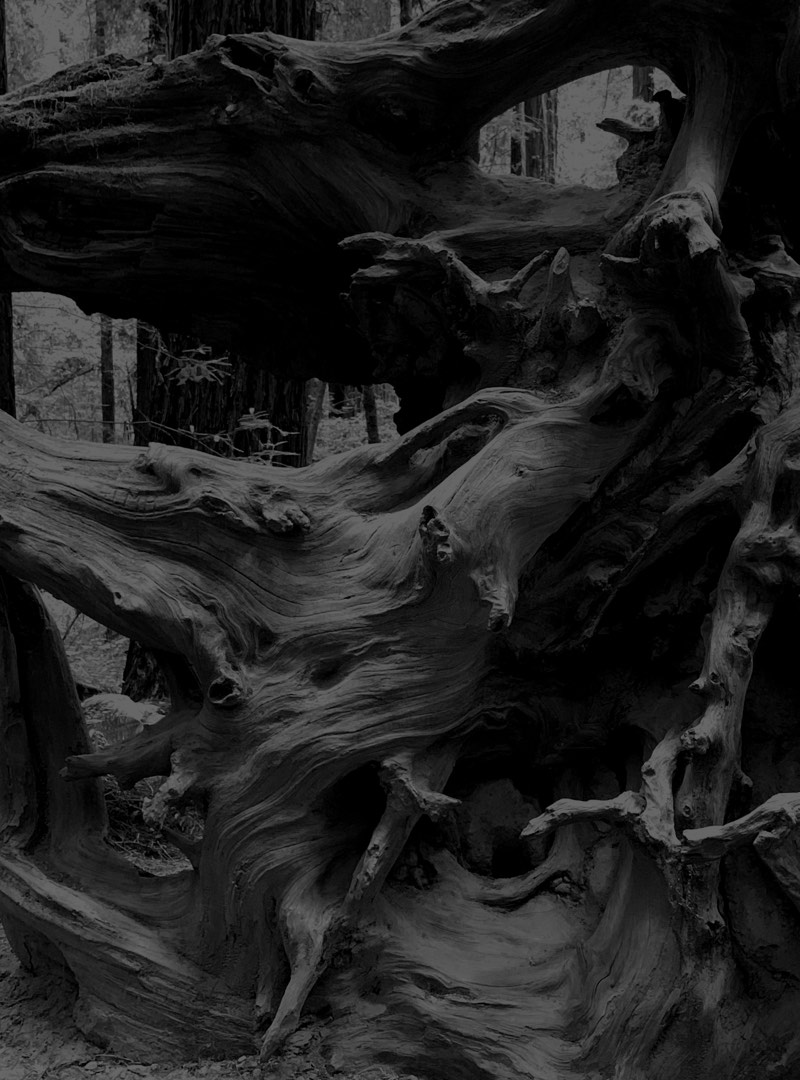
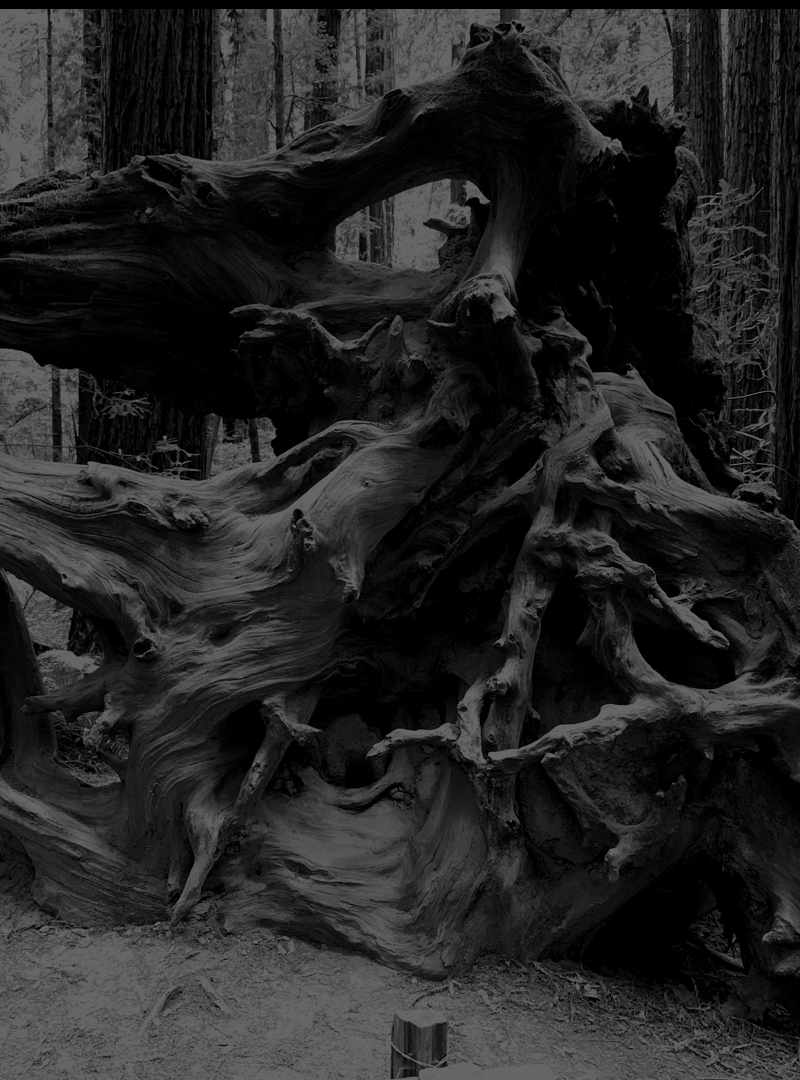
fixed hero image

diff --git a/main.css b/main.css
@@ -232,6 +232,10 @@ button {
     width: 100%;
   }
 
+  header {
+    background: url(images/background/img_home_1200x1080.jpg);
+  }
+
   .bio {
     flex-direction: column;
   }
@@ -282,9 +286,6 @@ section.bio {
     margin-left: 0;
   }
 
-  .bgimage {
-    background: url(images/background/img_bio_800x1080.jpg);
-  }
   section {
     padding-left: 8%;
     padding-right: 8%;
